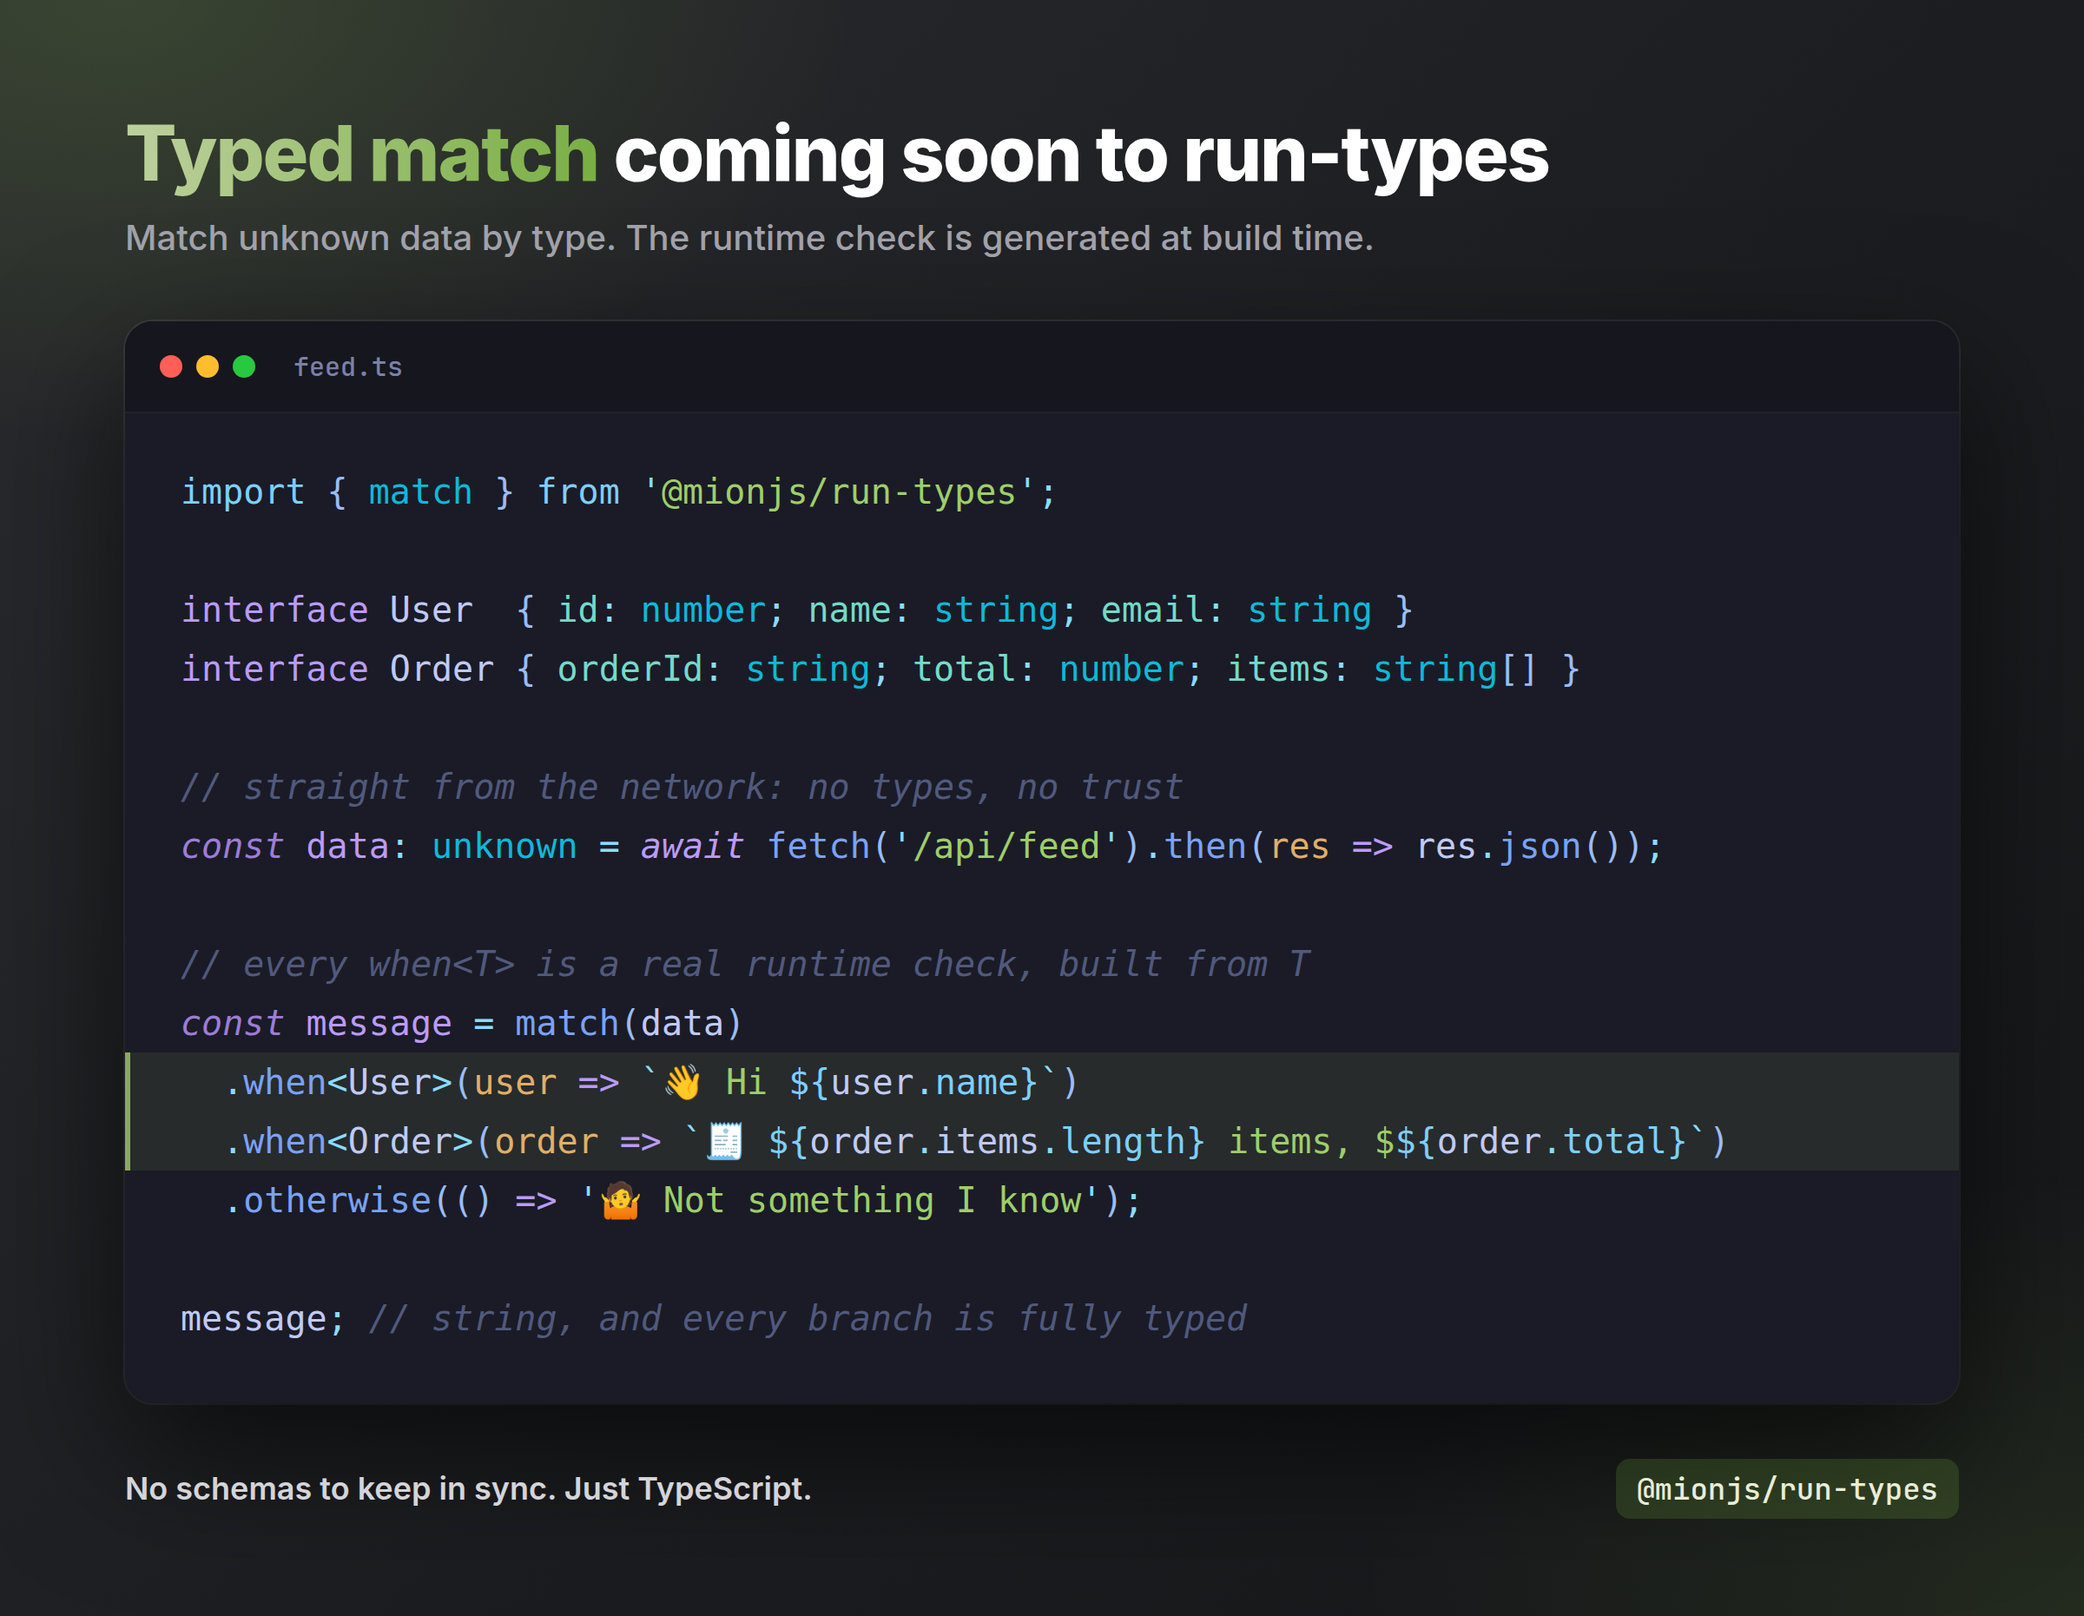
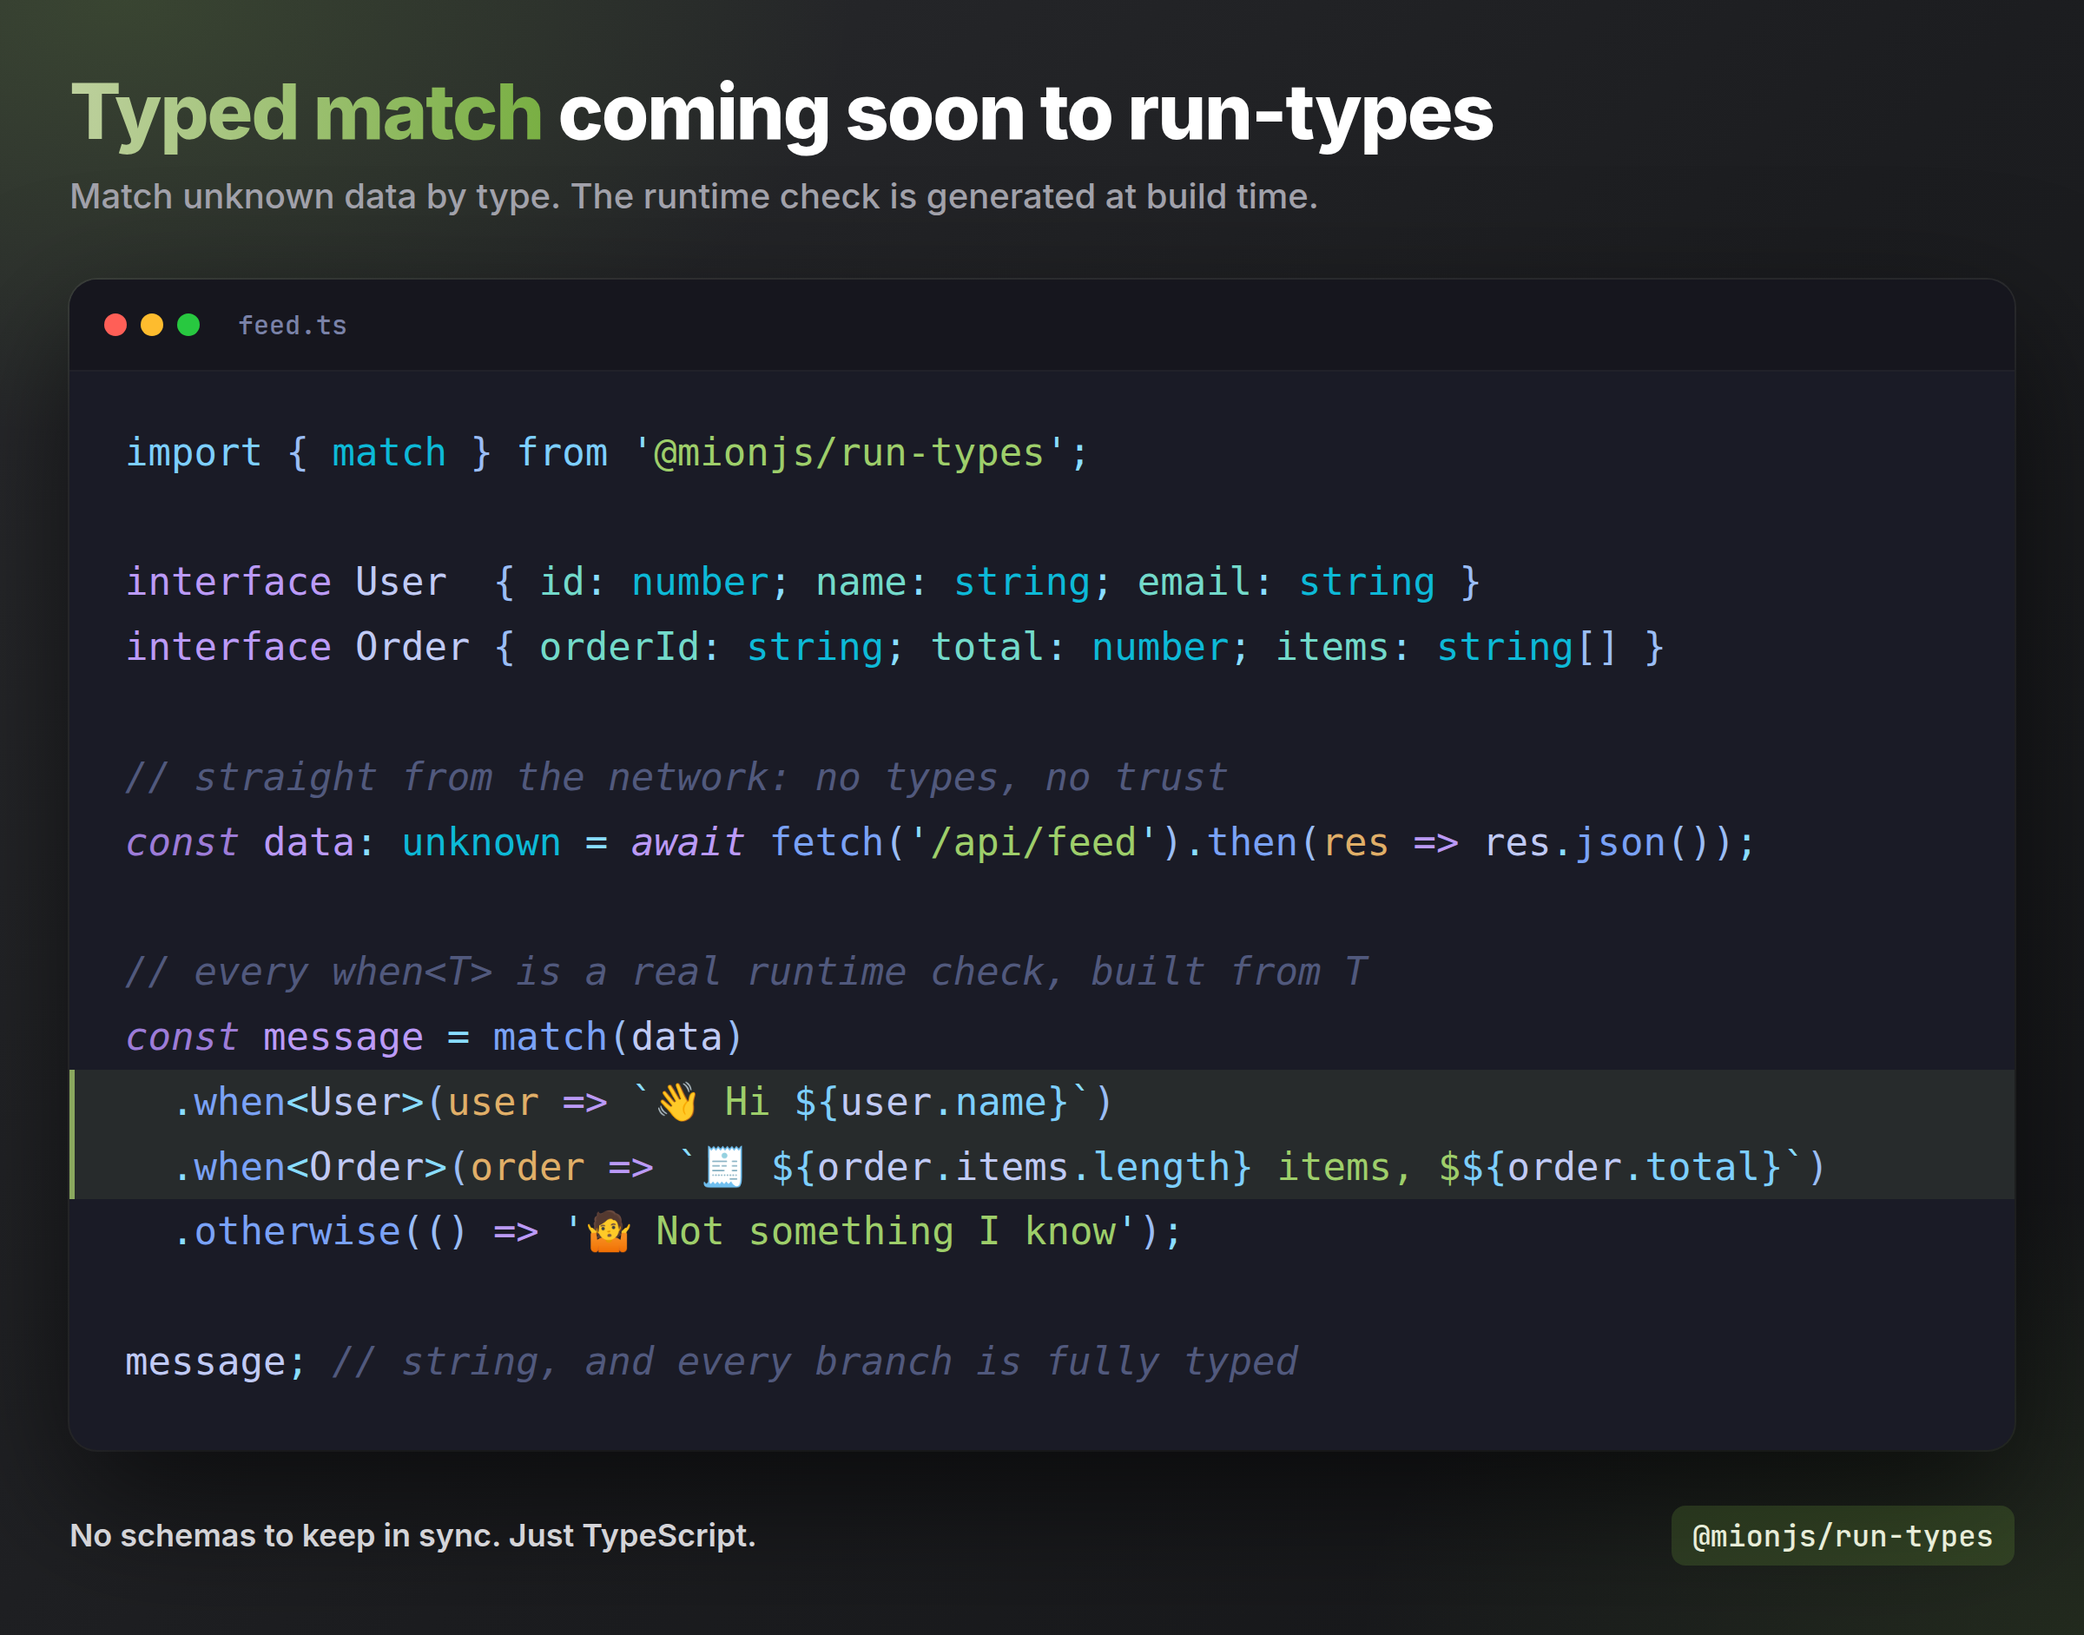
feat(code-card): padding and codeSize card fields, bigger defaults
Claude-Session: https://claude.ai/code/session_01M9qkzewAAapVEfK9WcnsWn

diff --git a/packages/code-card/src/card.ts b/packages/code-card/src/card.ts
@@ -9,9 +9,17 @@ export const PACKAGE_DIR = join(dirname(fileURLToPath(import.meta.url)), '..');
 export const CARDS_DIR = join(PACKAGE_DIR, 'cards');
 export const TMP_DIR = join(PACKAGE_DIR, 'tmp');
 export const THEME = 'tokyo-night';
-// 20px JetBrains Mono in the 1200px window fits about 82 columns.
-export const MAX_COLUMNS = 80;
-export const CARD_KEYS = ['title', 'subtitle', 'file', 'highlight', 'footer', 'badge'] as const;
+export const PAGE_WIDTH = 1200;
+// The code's own left + right padding inside the window, in template.html.
+const CODE_INSET = 64;
+// A JetBrains Mono character is 0.6em wide.
+const CHAR_WIDTH_EM = 0.6;
+export const DEFAULT_PADDING = 40;
+export const DEFAULT_CODE_SIZE = 22;
+export const PADDING_RANGE = [0, 120] as const;
+export const CODE_SIZE_RANGE = [12, 32] as const;
+export const CARD_KEYS = ['title', 'subtitle', 'file', 'highlight', 'footer', 'badge', 'padding', 'codeSize'] as const;
+const NUMBER_KEYS = ['padding', 'codeSize'];
 export const CARD_NAME = /^[a-z0-9][a-z0-9-]*$/;
 
 export type Card = {
@@ -22,8 +30,14 @@ export type Card = {
   badge: string;
   lang: string;
   highlight: number[];
+  padding: number;
+  codeSize: number;
   code: string;
 };
+
+// How many code characters fit on one line of the window.
+export const maxColumns = (padding: number, codeSize: number) =>
+  Math.floor((PAGE_WIDTH - 2 * padding - CODE_INSET) / (CHAR_WIDTH_EM * codeSize));
 
 export type RenderOptions = {zoom?: number};
 
@@ -71,8 +85,14 @@ export function validateCard(input: unknown, source = 'card'): Card {
   const known: string[] = [...CARD_KEYS, 'lang', 'code'];
   for (const [key, value] of Object.entries(fields)) {
     if (!known.includes(key)) throw cardError(source, `unknown key "${key}" (known: ${CARD_KEYS.join(', ')})`);
-    if (typeof value !== 'string') throw cardError(source, `"${key}" must be a string`);
+    const numeric = NUMBER_KEYS.includes(key) && typeof value === 'number';
+    if (typeof value !== 'string' && !numeric) throw cardError(source, `"${key}" must be a string`);
   }
+  // The loop above let only strings, and numbers for the NUMBER_KEYS, through.
+  const sizes = fields as Partial<Record<string, string | number>>;
+  const padding = parseSize(sizes.padding, 'padding', DEFAULT_PADDING, PADDING_RANGE, source);
+  const codeSize = parseSize(sizes.codeSize, 'codeSize', DEFAULT_CODE_SIZE, CODE_SIZE_RANGE, source);
+  const columnLimit = maxColumns(padding, codeSize);
   const text = fields as Partial<Record<string, string>>;
   if (!text.title?.trim()) throw cardError(source, 'missing title');
   if (!text.code?.trim()) throw cardError(source, 'the code block is empty');
@@ -80,8 +100,11 @@ export function validateCard(input: unknown, source = 'card'): Card {
   const codeLines = code.split('\n');
   codeLines.forEach((line, i) => {
     const columns = [...line].length;
-    if (columns > MAX_COLUMNS)
-      throw cardError(source, `code line ${i + 1} is ${columns} columns, the window fits ${MAX_COLUMNS}`);
+    if (columns > columnLimit)
+      throw cardError(
+        source,
+        `code line ${i + 1} is ${columns} columns, the window fits ${columnLimit} (lower codeSize or padding for more)`
+      );
   });
   return {
     title: text.title.trim(),
@@ -91,8 +114,25 @@ export function validateCard(input: unknown, source = 'card'): Card {
     badge: text.badge?.trim() ?? '',
     lang: text.lang?.trim() || 'ts',
     highlight: parseHighlight(text.highlight ?? '', codeLines.length, source),
+    padding,
+    codeSize,
     code,
   };
+}
+
+// A whole number of px inside the range; the card may leave it out.
+function parseSize(
+  value: string | number | undefined,
+  key: string,
+  fallback: number,
+  [min, max]: readonly [number, number],
+  source: string
+): number {
+  if (value === undefined || value === '') return fallback;
+  const size = typeof value === 'number' ? value : Number(value.trim().replace(/px$/, ''));
+  if (!Number.isInteger(size) || size < min || size > max)
+    throw cardError(source, `"${key}" must be a whole number of px from ${min} to ${max}, got "${value}"`);
+  return size;
 }
 
 export function parseHighlight(spec: string, lineCount: number, source = 'card'): number[] {
@@ -146,6 +186,9 @@ export async function renderCardHtml(card: Card, {zoom = 1}: RenderOptions = {})
     fontFaces: fontFaces(),
     // The screenshot tool saves at CSS pixels, so a sharp 2x PNG means zooming the page itself.
     zoom: String(zoom),
+    pageWidth: String(PAGE_WIDTH),
+    padding: `${card.padding}px`,
+    codeSize: `${card.codeSize}px`,
     title: titleHtml(card.title),
     subtitle: card.subtitle ? `<div class="sub">${escapeHtml(card.subtitle)}</div>` : '',
     file: card.file ? `<span class="file">${escapeHtml(card.file)}</span>` : '',

diff --git a/packages/code-card/test/card.test.ts b/packages/code-card/test/card.test.ts
@@ -6,7 +6,9 @@ import {beforeAll, describe, expect, it} from 'vitest';
 import {
   CARDS_DIR,
   PACKAGE_DIR,
-  MAX_COLUMNS,
+  DEFAULT_CODE_SIZE,
+  DEFAULT_PADDING,
+  maxColumns,
   parseCard,
   parseHighlight,
   renderCardHtml,
@@ -42,6 +44,8 @@ describe('code card: parseCard', () => {
       badge: '@mionjs/run-types',
       lang: 'ts',
       highlight: [2, 3],
+      padding: DEFAULT_PADDING,
+      codeSize: DEFAULT_CODE_SIZE,
       code: "const a = 1;\nconst b = 'two';\nconst c = <T>(value: T) => value;",
     });
   });
@@ -76,8 +80,8 @@ describe('code card: parseCard', () => {
     ['an unknown key', '---\ntitle: Hi\ncolour: red\n---\n```ts\nx;\n```', 'unknown key "colour"'],
     [
       'a line too wide',
-      `---\ntitle: Hi\n---\n\`\`\`ts\n${'x'.repeat(MAX_COLUMNS + 1)}\n\`\`\``,
-      `the window fits ${MAX_COLUMNS}`,
+      `---\ntitle: Hi\n---\n\`\`\`ts\n${'x'.repeat(maxColumns(DEFAULT_PADDING, DEFAULT_CODE_SIZE) + 1)}\n\`\`\``,
+      `the window fits ${maxColumns(DEFAULT_PADDING, DEFAULT_CODE_SIZE)}`,
     ],
   ])('fails on %s', (_, markdown, message) => {
     expect(() => parseCard(markdown, 'demo.md')).toThrow(message);
@@ -85,7 +89,9 @@ describe('code card: parseCard', () => {
   });
 
   it('counts an emoji as one column', () => {
-    expect(() => parseCard(`---\ntitle: Hi\n---\n\`\`\`ts\n${'👋'.repeat(MAX_COLUMNS)}\n\`\`\``)).not.toThrow();
+    expect(() =>
+      parseCard(`---\ntitle: Hi\n---\n\`\`\`ts\n${'👋'.repeat(maxColumns(DEFAULT_PADDING, DEFAULT_CODE_SIZE))}\n\`\`\``)
+    ).not.toThrow();
   });
 });
 
@@ -98,6 +104,50 @@ describe('code card: parseHighlight', () => {
 
   it.each(['0', '6', '3-2', 'a', '1-', '2..3'])('rejects "%s"', (spec) => {
     expect(() => parseHighlight(spec, 5)).toThrow(/highlight/);
+  });
+});
+
+describe('code card: padding and codeSize', () => {
+  const sized = (front: string, code = 'x;') => parseCard(`---\ntitle: Hi\n${front}\n---\n\`\`\`ts\n${code}\n\`\`\``);
+
+  it('defaults to 40px padding and 22px code, which fits 80 columns', () => {
+    expect(sized('')).toMatchObject({padding: 40, codeSize: 22});
+    expect(maxColumns(DEFAULT_PADDING, DEFAULT_CODE_SIZE)).toBe(80);
+  });
+
+  it('reads whole px values, with or without "px"', () => {
+    expect(sized('padding: 24\ncodeSize: 26px')).toMatchObject({padding: 24, codeSize: 26});
+  });
+
+  it('fits more columns with less padding or smaller code, fewer with bigger code', () => {
+    expect(maxColumns(0, 22)).toBeGreaterThan(80);
+    expect(maxColumns(40, 16)).toBeGreaterThan(80);
+    expect(maxColumns(40, 30)).toBeLessThan(80);
+    const line = 'x'.repeat(70);
+    expect(() => sized('codeSize: 30', line)).toThrow('the window fits 58 (lower codeSize or padding for more)');
+    expect(() => sized('codeSize: 16', 'x'.repeat(100))).not.toThrow();
+  });
+
+  it.each([
+    ['padding: -1', 'from 0 to 120'],
+    ['padding: 121', 'from 0 to 120'],
+    ['codeSize: 11', 'from 12 to 32'],
+    ['codeSize: 22.5', 'whole number'],
+    ['codeSize: big', 'whole number'],
+  ])('rejects %s', (front, message) => {
+    expect(() => sized(front)).toThrow(message);
+  });
+
+  it('takes numbers from JSON, but not other types', () => {
+    expect(validateCard({title: 'Hi', code: 'x;', padding: 10, codeSize: 18})).toMatchObject({padding: 10, codeSize: 18});
+    expect(() => validateCard({title: 'Hi', code: 'x;', padding: true})).toThrow('"padding" must be a string');
+    expect(() => validateCard({title: 'Hi', code: 'x;', title2: 1})).toThrow('unknown key');
+  });
+
+  it('writes both into the page', async () => {
+    const html = await renderCardHtml(sized('padding: 24\ncodeSize: 26'));
+    expect(html).toContain('--page-padding: 24px;');
+    expect(html).toContain('--code-size: 26px;');
   });
 });
 

diff --git a/packages/code-card/template.html b/packages/code-card/template.html
@@ -20,6 +20,8 @@
         --code-bg: #1a1b26;
         --bar-bg: #16161e;
         --file-name: #7a82a8;
+        --page-padding: {{padding}};
+        --code-size: {{codeSize}};
       }
       * {
         margin: 0;
@@ -27,13 +29,13 @@
       }
       body {
         zoom: {{zoom}};
-        width: 1200px;
+        width: {{pageWidth}}px;
         margin: 0;
         font-family: Inter, sans-serif;
         background: var(--bg-to);
       }
       .stage {
-        padding: 64px 72px 56px;
+        padding: var(--page-padding);
         background:
           radial-gradient(700px 420px at 6% 0%, color-mix(in srgb, var(--glow) 20%, transparent), transparent 60%),
           radial-gradient(700px 420px at 100% 100%, color-mix(in srgb, var(--glow) 13%, transparent), transparent 60%),
@@ -85,18 +87,24 @@
         font: 500 15px 'JetBrains Mono', monospace;
       }
       .win pre {
-        font: 400 20px/1.7 'JetBrains Mono', 'Noto Color Emoji', monospace;
+        font: 400 var(--code-size) / 1.7 'JetBrains Mono', 'Noto Color Emoji', monospace;
         padding: 28px 32px 32px;
         white-space: pre;
         background: transparent !important;
       }
+      /* A column of rows: whitespace between them is dropped, so every row, emoji or not, is one full band. */
+      .win pre code {
+        display: flex;
+        flex-direction: column;
+      }
+      .win pre .line {
+        min-height: calc(var(--code-size) * 1.7);
+      }
       .win pre .line.hl {
-        display: inline-block;
         background: color-mix(in srgb, var(--accent-mid) 12%, transparent);
         border-left: 3px solid var(--accent-mid);
-        margin-left: -32px;
+        margin: 0 -32px;
         padding-left: 29px;
-        width: calc(100% + 64px);
       }
       .foot {
         display: flex;

diff --git a/packages/code-card/src/shoot.ts b/packages/code-card/src/shoot.ts
@@ -8,7 +8,7 @@ import {tmpdir} from 'node:os';
 import {basename, dirname, join, resolve} from 'node:path';
 import {pathToFileURL} from 'node:url';
 import {parseArgs} from 'node:util';
-import {CARDS_DIR, loadCard, resolveCardPath} from './card.ts';
+import {CARDS_DIR, PAGE_WIDTH, loadCard, resolveCardPath} from './card.ts';
 import {createCardServer} from './server.ts';
 
 export const SHOT_USAGE = 'usage: miondevx card shot <name|path…> | --all  [--out <dir>] [--browser <path>]';
@@ -34,12 +34,13 @@ export function cliConfig(browser?: string) {
     browser: {
       browserName: 'chromium',
       launchOptions: {headless: true, chromiumSandbox: false, ...(browser ? {executablePath: browser} : {})},
-      contextOptions: {viewport: {width: 1200 * ZOOM, height: 800 * ZOOM}},
+      contextOptions: {viewport: {width: PAGE_WIDTH * ZOOM, height: 800 * ZOOM}},
     },
   };
 }
 
-const cliScript = () => createRequire(import.meta.url).resolve('@playwright/cli/playwright-cli.js');
+// The root package.json's @playwright/cli, shared with the website-browser skill.
+export const cliScript = () => createRequire(import.meta.url).resolve('@playwright/cli/playwright-cli.js');
 
 // The CLI prints a stack trace or a markdown report; keep the lines that say what went wrong.
 export function cliFailure(output: string): string {

diff --git a/packages/code-card/test/shoot.test.ts b/packages/code-card/test/shoot.test.ts
@@ -1,5 +1,6 @@
 import {describe, expect, it} from 'vitest';
-import {ZOOM, cliConfig, cliFailure, parseShotArgs} from '../src/shoot.ts';
+import {existsSync} from 'node:fs';
+import {ZOOM, cliConfig, cliFailure, cliScript, parseShotArgs} from '../src/shoot.ts';
 
 describe('code card: shot', () => {
   it('names or --all, plus --out and --browser', () => {
@@ -38,5 +39,9 @@ describe('code card: shot', () => {
     const report = '### Error\nError: ".stage" does not match any elements.';
     expect(cliFailure(report)).toBe('".stage" does not match any elements.');
     expect(cliFailure('  something else  ')).toBe('something else');
+  });
+
+  it('finds the root playwright-cli from the package', () => {
+    expect(existsSync(cliScript())).toBe(true);
   });
 });

diff --git a/.claude/skills/code-card/SKILL.md b/.claude/skills/code-card/SKILL.md
@@ -46,9 +46,11 @@ import { match } from '@mionjs/run-types';
 | `highlight` | no | Lines to mark: `3`, `11-12` or `3,7-8`. Line 1 is the first line INSIDE the code block. |
 | `footer` | no | A short line under the window. |
 | `badge` | no | A small pill at the bottom right, usually the package name. |
+| `padding` | no | Space between the image edge and the content, in px. Default `40`, from `0` to `120`. |
+| `codeSize` | no | Code font size, in px. Default `22`, from `12` to `32`. |
 | fence language | no | Picks the colouring: `ts` (default), `js`, `json`, `bash`, `go`… |
 
-The app refuses a card with an unknown key, a bad highlight range, or a code line over 80 columns (the window is fixed at that width). Its error names the problem.
+The app refuses a card with an unknown key, a bad highlight range, a size out of range, or a code line too long for the window. The defaults fit 80 columns; a smaller `codeSize` or `padding` fits more. The error names the problem and the limit.
 
 ## Rules for good cards
 
